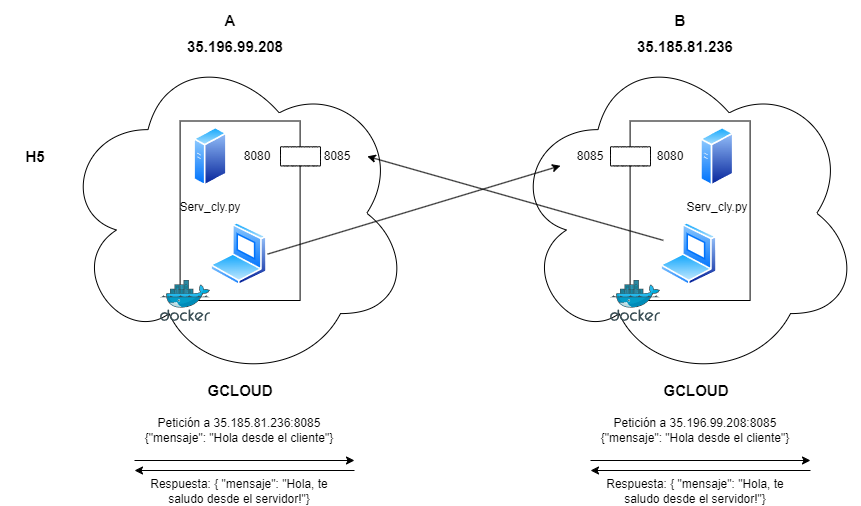
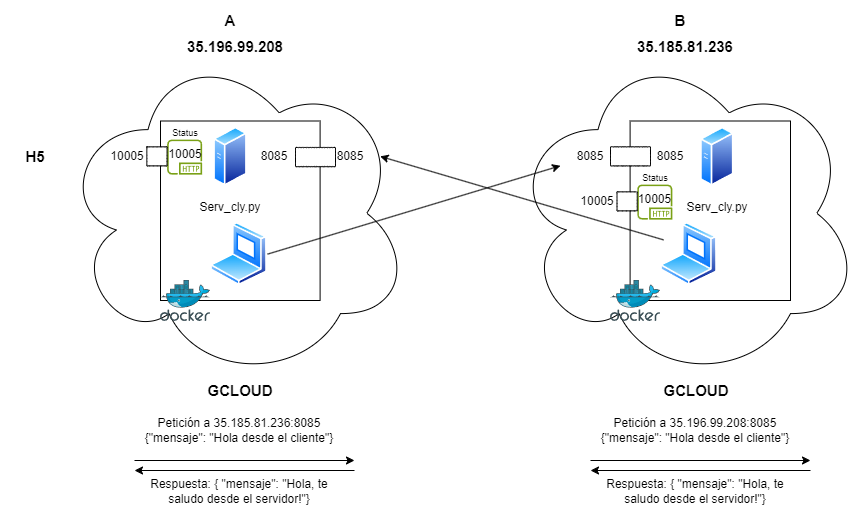
H5 funcionando :)

Changed region(s): [[0.3322, 0.2372, 0.7851, 0.4743], [0.1208, 0.2372, 0.3322, 0.5632], [0.8757, 0.2372, 0.9059, 0.2668]]

diff --git a/TP1/H5/Serv_Cli.py b/TP1/H5/Serv_Cli.py
@@ -1,18 +1,58 @@
+from http.server import BaseHTTPRequestHandler, HTTPServer
+import json
 import socket
 import threading
 import time
 import sys
-import json
 
-HOSTServ = sys.argv[1]  # La dirección IP de loopback, localhost
-PORTServ = int(sys.argv[2])  # Puerto para escuchar las conexiones entrantes
-HOSTDest = sys.argv[3]
-PORTDest = int(sys.argv[4])
+HOSTServ = sys.argv[1]  #n La dirección IP de loopback, localhost
+PORTServ = int(sys.argv[2])        # Puerto para escuchar las conexioes entrantes
+HOSTDest = sys.argv[3] 
+PORTDest = int(sys.argv[4]) 
+PORT_STATUS = 10005 # Puerto status
+
+# ------------------------------------------------------------------------------
+#                                ENDPOINT
+# ------------------------------------------------------------------------------
+
+status = True
+
+#Creamos la ruta
+class StatusHandler(BaseHTTPRequestHandler):
+    def do_GET(self):
+        if self.path == '/status':
+            #Devuelvo un codigo 200 y un mensaje diciendo que el server funciona
+            self.send_response(200)
+            self.send_header('Content-type', 'text/html')
+            self.end_headers()
+            status_json = json.dumps({
+                "key":"h5",
+                "status": "Servidor en funcionamiento"})
+            self.wfile.write(status_json.encode())
+        else:
+            #Si es otro path dice que en endpoint no existe(404)
+            self.send_response(404)
+            self.send_header('Content-type', 'text/html')
+            self.end_headers()
+            self.wfile.write("Endpoint no encontrado".encode())
+
+
+def statusRun(server_class=HTTPServer, handler_class=StatusHandler):
+    #Crea el socket, y deja corriendo /status
+    server_address = (HOSTServ, PORT_STATUS)
+    httpd = server_class(server_address, handler_class)
+    print("Status corriendo!")
+    while status:
+        httpd.serve_forever() #Maneja solicitudes
+
+# ------------------------------------------------------------------------------
+#                                APLICACION
+# ------------------------------------------------------------------------------
 
 def servidor():
-    mi_socket = socket.socket()  # Genera socket
-    mi_socket.bind((HOSTServ, PORTServ))  # Recibe ip y puerto
-    mi_socket.listen(5)  # Cantidad de peticiones en cola
+    mi_socket = socket.socket() # Genera socket
+    mi_socket.bind((HOSTServ, PORTServ)) # Recibe ip y puerto
+    mi_socket.listen(5) # Cantidad de peticiones en cola
 
     print(f"El servidor está escuchando en {HOSTServ}:{PORTServ}")
 
@@ -27,17 +67,16 @@ def servidor():
 
             respuesta = {"mensaje": "Hola, te saludo desde el servidor"}
             conexion.send(json.dumps(respuesta).encode())  # Envia respuesta como JSON
-
+            
         except ConnectionAbortedError:
             print("La conexión fue cerrada por el cliente.")
         except KeyboardInterrupt:
             print("Interrupción del servidor. Cerrando...")
         except BrokenPipeError:
-            print("Se produjo un error de pipe roto.")
+                print("Se produjo un error de pipe roto.")
         finally:
             conexion.close()
 
-    mi_socket.close()
 
 def conectar():
     mi_socket = socket.socket()
@@ -47,7 +86,7 @@ def conectar():
             return mi_socket
         except ConnectionRefusedError:
             print("La conexión fue rechazada. Intentando de nuevo...")
-            time.sleep(5)  # Esperar 5 segundos antes de intentar de nuevo
+            time.sleep(5)  # Esperar 5 segundos antes de intentar de nuevo      
             continue
         except KeyboardInterrupt:
             raise  # Volver a lanzar la excepción para que el bloque principal pueda manejarla
@@ -59,7 +98,7 @@ def enviar_saludo(socket_cliente):
             socket_cliente.send(json.dumps(mensaje).encode())  # Envia mensaje como JSON
             respuesta = json.loads(socket_cliente.recv(1024).decode())  # Decodifica respuesta JSON
             print("Respuesta recibida:", respuesta)
-        except (ConnectionResetError, ConnectionAbortedError,BrokenPipeError):
+        except (ConnectionResetError, ConnectionAbortedError, BrokenPipeError):
             print("Se produjo un error de conexión. Reintentando (Cliente)...")
             socket_cliente.close()
             socket_cliente = conectar()  # Usamos una nueva variable para el nuevo socket
@@ -71,7 +110,7 @@ def enviar_saludo(socket_cliente):
             pass
         time.sleep(10)  # Esperar 10 segundos antes de enviar el próximo saludo
 
-def cliente():
+def cliente ():
     try:
         mi_socket = conectar()
         enviar_saludo(mi_socket)
@@ -79,11 +118,16 @@ def cliente():
     except KeyboardInterrupt:
         print("Interrupción del cliente. Cerrando...")
 
+
 if __name__ == "__main__":
     if len(sys.argv) != 5:
         print("Uso: python serv_cli.py <ip_servidor> <puerto_servidor> <ip_destino> <puerto_destino>")
         sys.exit(1)
 
+    #Ejecutar servidor en otro hilo
     servidor_thread = threading.Thread(target=servidor)
     servidor_thread.start()
+    # Ejecutar el servidor HTTP en un hilo separado
+    threading.Thread(target=statusRun, daemon=True).start()
+    #servidor()
     cliente()

diff --git a/TP1/H5/README.MD b/TP1/H5/README.MD
@@ -9,17 +9,17 @@ La diferencia radica fundamentalmente en los mensajes que se van a enviar, ya qu
 Los mensajes se convierten en diccionarios de Python antes de ser serializados en formato JSON usando json.dumps(). Al recibir los mensajes, se decodifican desde JSON a diccionarios de Python utilizando json.loads(). <br>
 
 COMANDOS PARA CORRER DOCKER CON ARGS: corriendo los docker en nuestra maquina <br>
-Creando contenedor en docker: <br>
+<h2>Creando contenedor en docker: </h2> <br>
 docker build . -t h5 -f H5/h5.dockerfile <br>
 docker login <br>
 docker tag h5 lucaslatessa/h5 <br>
 docker push lucaslatessa/h5 <br>
 
-Comandos ejecutados en la mv de google cloud: <br>
-docker login (en ambas maquinas) <br>
-docker pull lucaslatessa/h5  (en ambas maquinas) <br>
+<h2>Comandos ejecutados en la mv de google cloud:  </h2> <br>
+sudo docker login (en ambas maquinas) <br>
+sudo docker pull lucaslatessa/h5  (en ambas maquinas) <br>
 
-VM1 -> sudo docker run -it --rm --name h5 -p 8085:8080 lucaslatessa/h5 0.0.0.0 8080 35.185.81.236 8085 <br>
+VM1 -> sudo docker run -it --rm --name h5 -p 8085:8085 -p 10005:10005 lucaslatessa/h5 0.0.0.0 8085 35.185.81.236 8085 <br>
 
-VM2 -> sudo docker run -it --rm --name h5 -p 8085:8080 lucaslatessa/h5 0.0.0.0 8080 35.196.99.208 8085
+VM2 -> sudo docker run -it --rm --name h5 -p 8085:8085 -p 10005:10005 lucaslatessa/h5 0.0.0.0 8085 35.196.99.208 8085
 
